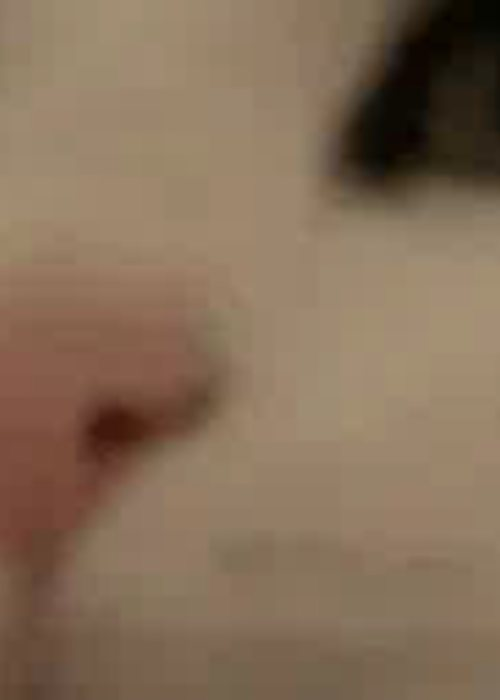
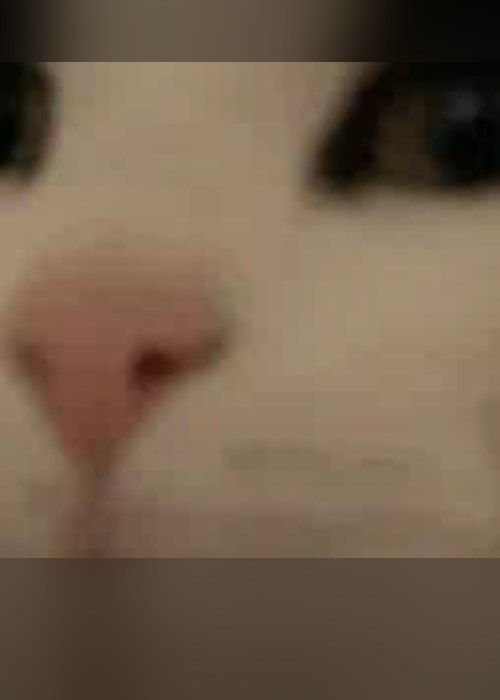
Dézoome l'image de Rwt
Claude-Session: https://claude.ai/code/session_012zh4EtRGLuwvrd88Lowo4N

diff --git a/index.html b/index.html
@@ -635,7 +635,7 @@ const TEAM_PHOTOS={};
 const WIDE=new Set(["speciales-les","rosters-valo","rosters-lol","speciales-ratoon","speciales-ga"]);
 const CHAMP_KEY={"Kai'Sa":"Kaisa","Kha'Zix":"Khazix","K'Santé":"KSante"};
 const champUrl=n=>`https://ddragon.leagueoflegends.com/cdn/img/champion/loading/${CHAMP_KEY[n]||n.replace(/[^A-Za-z]/g,"")}_0.jpg`;
-const IMG_V="12";
+const IMG_V="13";
 const roleSvg=(r,cls)=>ROLE_IMG[r]?`<i class="${cls} rimg" style="--m:url(${ROLE_IMG[r]})"></i>`:ROLE_SVG[r]?`<svg class="${cls}" viewBox="0 0 24 24" fill="none" stroke="currentColor" stroke-width="1.8" stroke-linecap="round" stroke-linejoin="round">${ROLE_SVG[r]}</svg>`:"";
 const cName=(c,lk)=>c.rar==="U"&&lk?"???":c.name;
 const infoLine=c=>SET_BY[c.set].name+(c.role?" · "+c.role:"");
